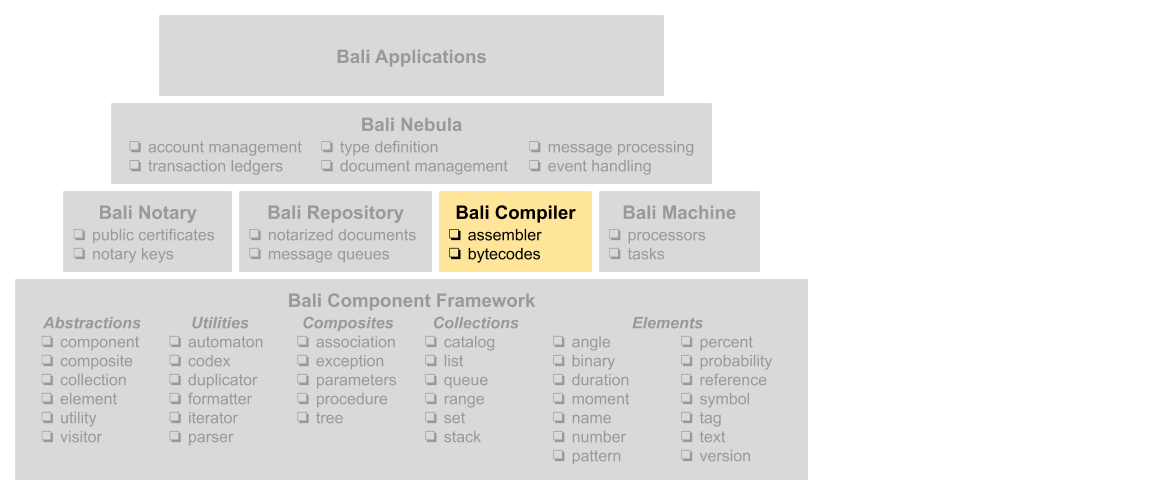
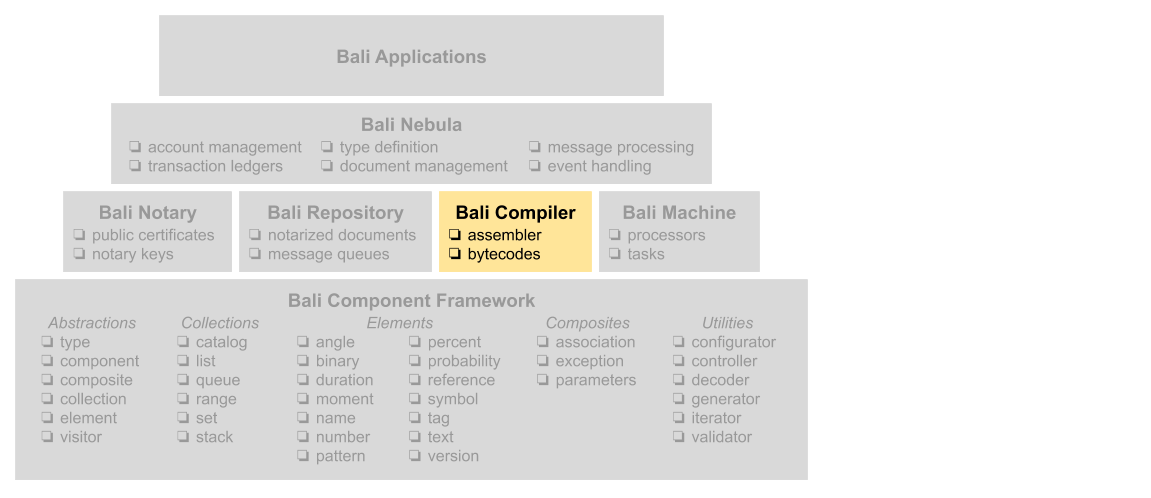
Renamed Codex -> Decoder, Machine -> Controller, and Savant -> Calculator.

Changed region(s): [[0.152, 0.6325, 0.4561, 0.9337], [0.4561, 0.6325, 0.669, 0.9337], [0.0304, 0.6325, 0.1216, 0.8434]]

diff --git a/index.js b/index.js
@@ -45,7 +45,7 @@ exports.api = function(notary, repository, debug) {
 
         /**
          * This function compiles the Bali Nebula™ source code for a procedure into a compilation
-         * context containing the corresponding Bali Nebula™ machines instructions.
+         * context containing the corresponding Bali Nebula™ virtual machine instructions.
          * 
          * @param {Catalog} type A catalog containing the type context for the procedure being
          * compiled.
@@ -59,9 +59,9 @@ exports.api = function(notary, repository, debug) {
         },
 
         /**
-         * This function assembles the Bali Nebula™ machine instructions contained in a compiled
-         * procedure context into the corresponding bytecode which is added to the compiled
-         * procedure context.
+         * This function assembles the Bali Nebula™ virtual machine instructions contained in
+         * a compiled procedure context into the corresponding bytecode which is added to the
+         * compiled procedure context.
          * 
          * @param {Catalog} type A catalog containing the type context for the procedure being
          * assembled.
@@ -73,12 +73,12 @@ exports.api = function(notary, repository, debug) {
         },
 
         /**
-         * This function formats a list of Bali Nebula™ machine instructions into a JavaScript
-         * string containing the corresponding Bali Nebula™ assembly code. An optional
+         * This function formats a list of Bali Nebula™ virtual machine instructions into a
+         * JavaScript string containing the corresponding Bali Nebula™ assembly code. An optional
          * indentation level may be specified that causes the formatter to indent each line by
          * that many additional levels.  Each level is four spaces and the default is zero levels.
          * 
-         * @param {List} instructions The list of machine instructions to be formatted.
+         * @param {List} instructions The list of virtual machine instructions to be formatted.
          * @param {Number} indentation An optional number of levels to indent the output.
          * @returns {String} A string containing the corresponding assembly code.
          */
@@ -89,10 +89,11 @@ exports.api = function(notary, repository, debug) {
 
         /**
          * This function parses a string containing Bali Nebula™ assembly code. It generates
-         * the corresponding list of Bali Nebula™ machine instructions.
+         * the corresponding list of Bali Nebula™ virtual machine instructions.
          * 
          * @param {String} assembly A string containing Bali Nebula™ assembly code.
-         * @returns {List} A list containing the corresponding Bali Nebula™ machine instructions.
+         * @returns {List} A list containing the corresponding Bali Nebula™ virtual machine
+         * instructions.
          */
         parseInstructions: function(assembly) {
             const parser = new utilities.Parser(debug);
@@ -120,7 +121,7 @@ exports.api = function(notary, repository, debug) {
         },
 
         /**
-         * This function decodes the operation for a Bali Nebula™ machine instruction.
+         * This function decodes the operation for a Bali Nebula™ virtual machine instruction.
          *
          * @param {Number} instruction The instruction to be decoded.
          * @return {Number} The decoded operation.
@@ -130,7 +131,7 @@ exports.api = function(notary, repository, debug) {
         },
 
         /**
-         * This function decodes the modifier for a Bali Nebula™ machine instruction.
+         * This function decodes the modifier for a Bali Nebula™ virtual machine instruction.
          *
          * @param {Number} instruction The instruction to be decoded.
          * @return {Number} The decoded modifier.
@@ -140,7 +141,7 @@ exports.api = function(notary, repository, debug) {
         },
 
         /**
-         * This function decodes the operand for a Bali Nebula™ machine instruction.
+         * This function decodes the operand for a Bali Nebula™ virtual machine instruction.
          *
          * @param {Number} instruction The instruction to be decoded.
          * @return {Number} The decoded operand.

diff --git a/src/Assembler.js b/src/Assembler.js
@@ -55,8 +55,8 @@ Assembler.prototype.assembleProcedure = function(context, compilation) {
 
     // format the bytecode and add to the procedure context
     var bytecode = visitor.getBytecode();
-    const codex = bali.codex('        ');
-    const base16 = codex.base16Encode(utilities.bytecode.bytecodeToBytes(bytecode));
+    const decoder = bali.decoder('        ');
+    const base16 = decoder.base16Encode(utilities.bytecode.bytecodeToBytes(bytecode));
     bytecode = bali.component("'" + base16 + EOL + "        '" + '($encoding: $base16, $mediatype: "application/bcod")');
     compilation.setValue('$bytecode', bytecode);
 };

diff --git a/src/utilities/Bytecode.js b/src/utilities/Bytecode.js
@@ -192,8 +192,8 @@ exports.instructionIsValid = function(instruction) {
  * @returns {String} The base 16 encoded instruction.
  */
 exports.instructionToBase16 = function(instruction) {
-    const bytes = bali.codex.shortToBytes(instruction);
-    const base16 = bali.codex.base16Encode(bytes);
+    const bytes = bali.decoder.shortToBytes(instruction);
+    const base16 = bali.decoder.base16Encode(bytes);
     return base16;
 };
 
